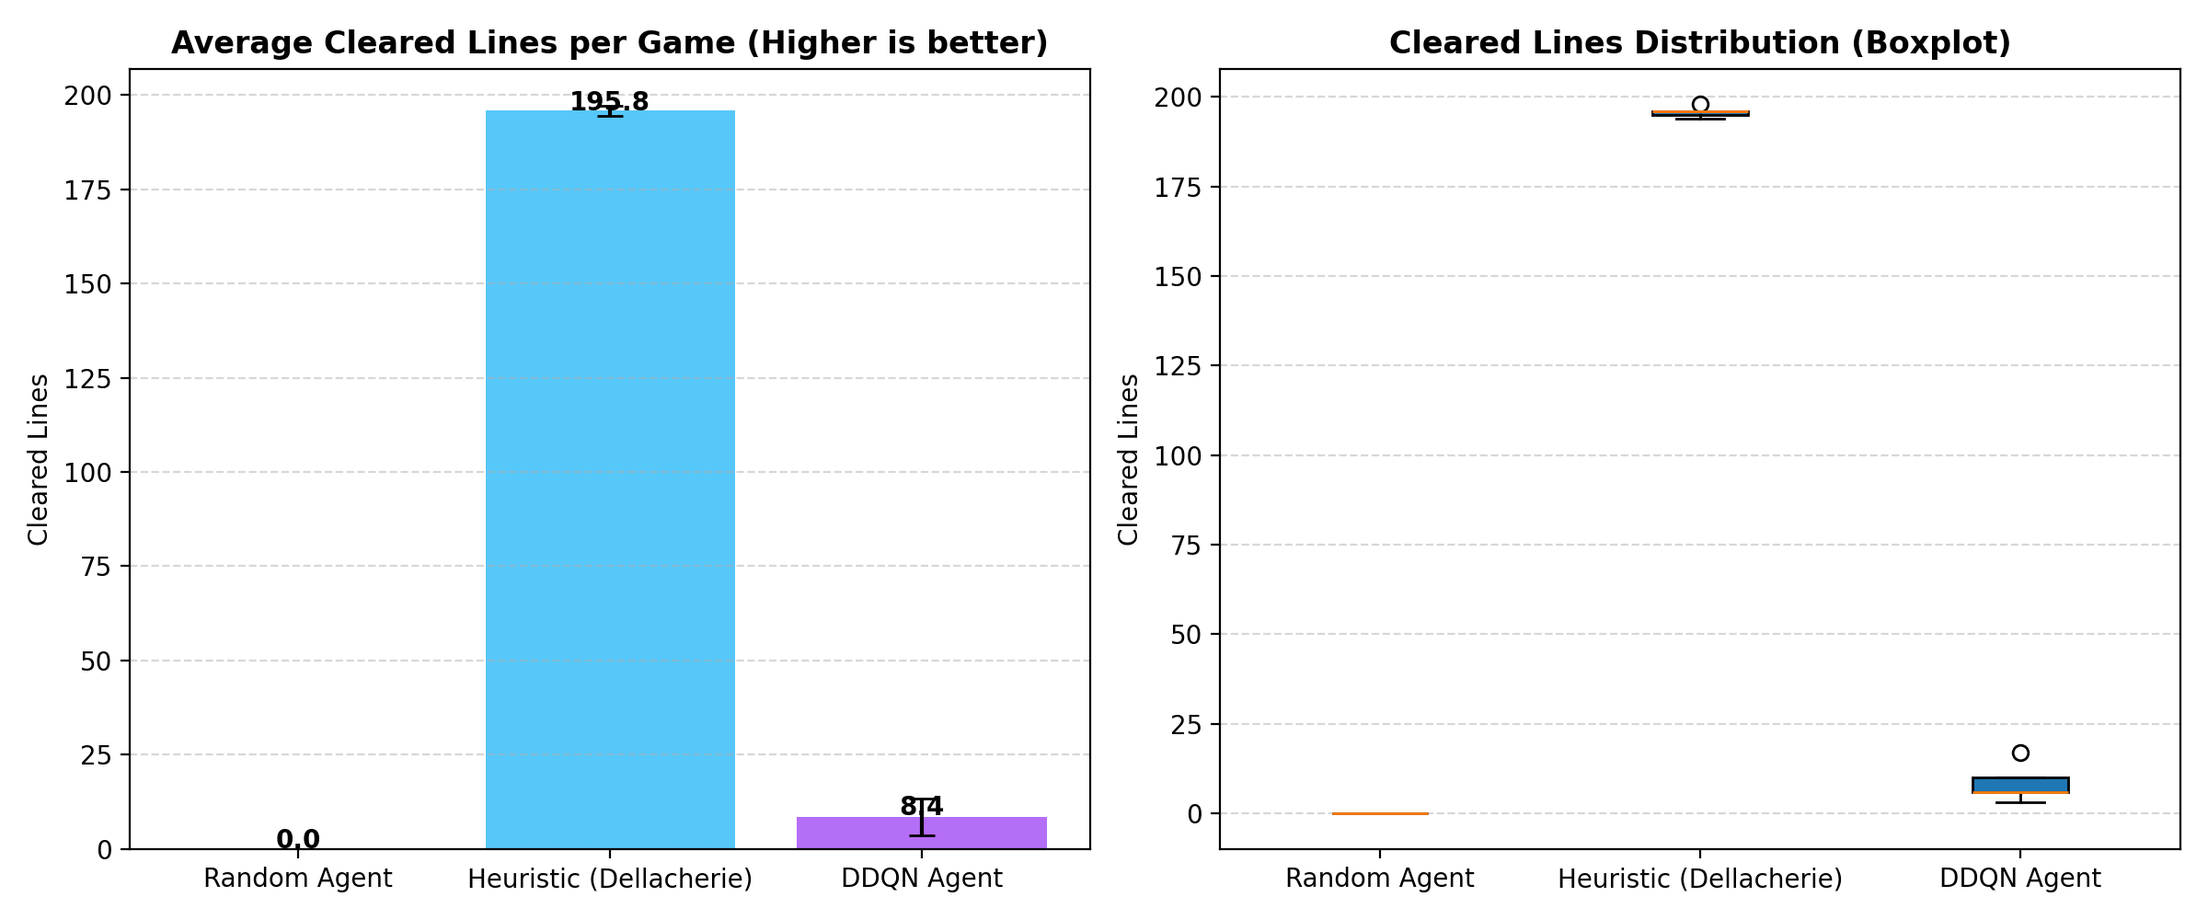
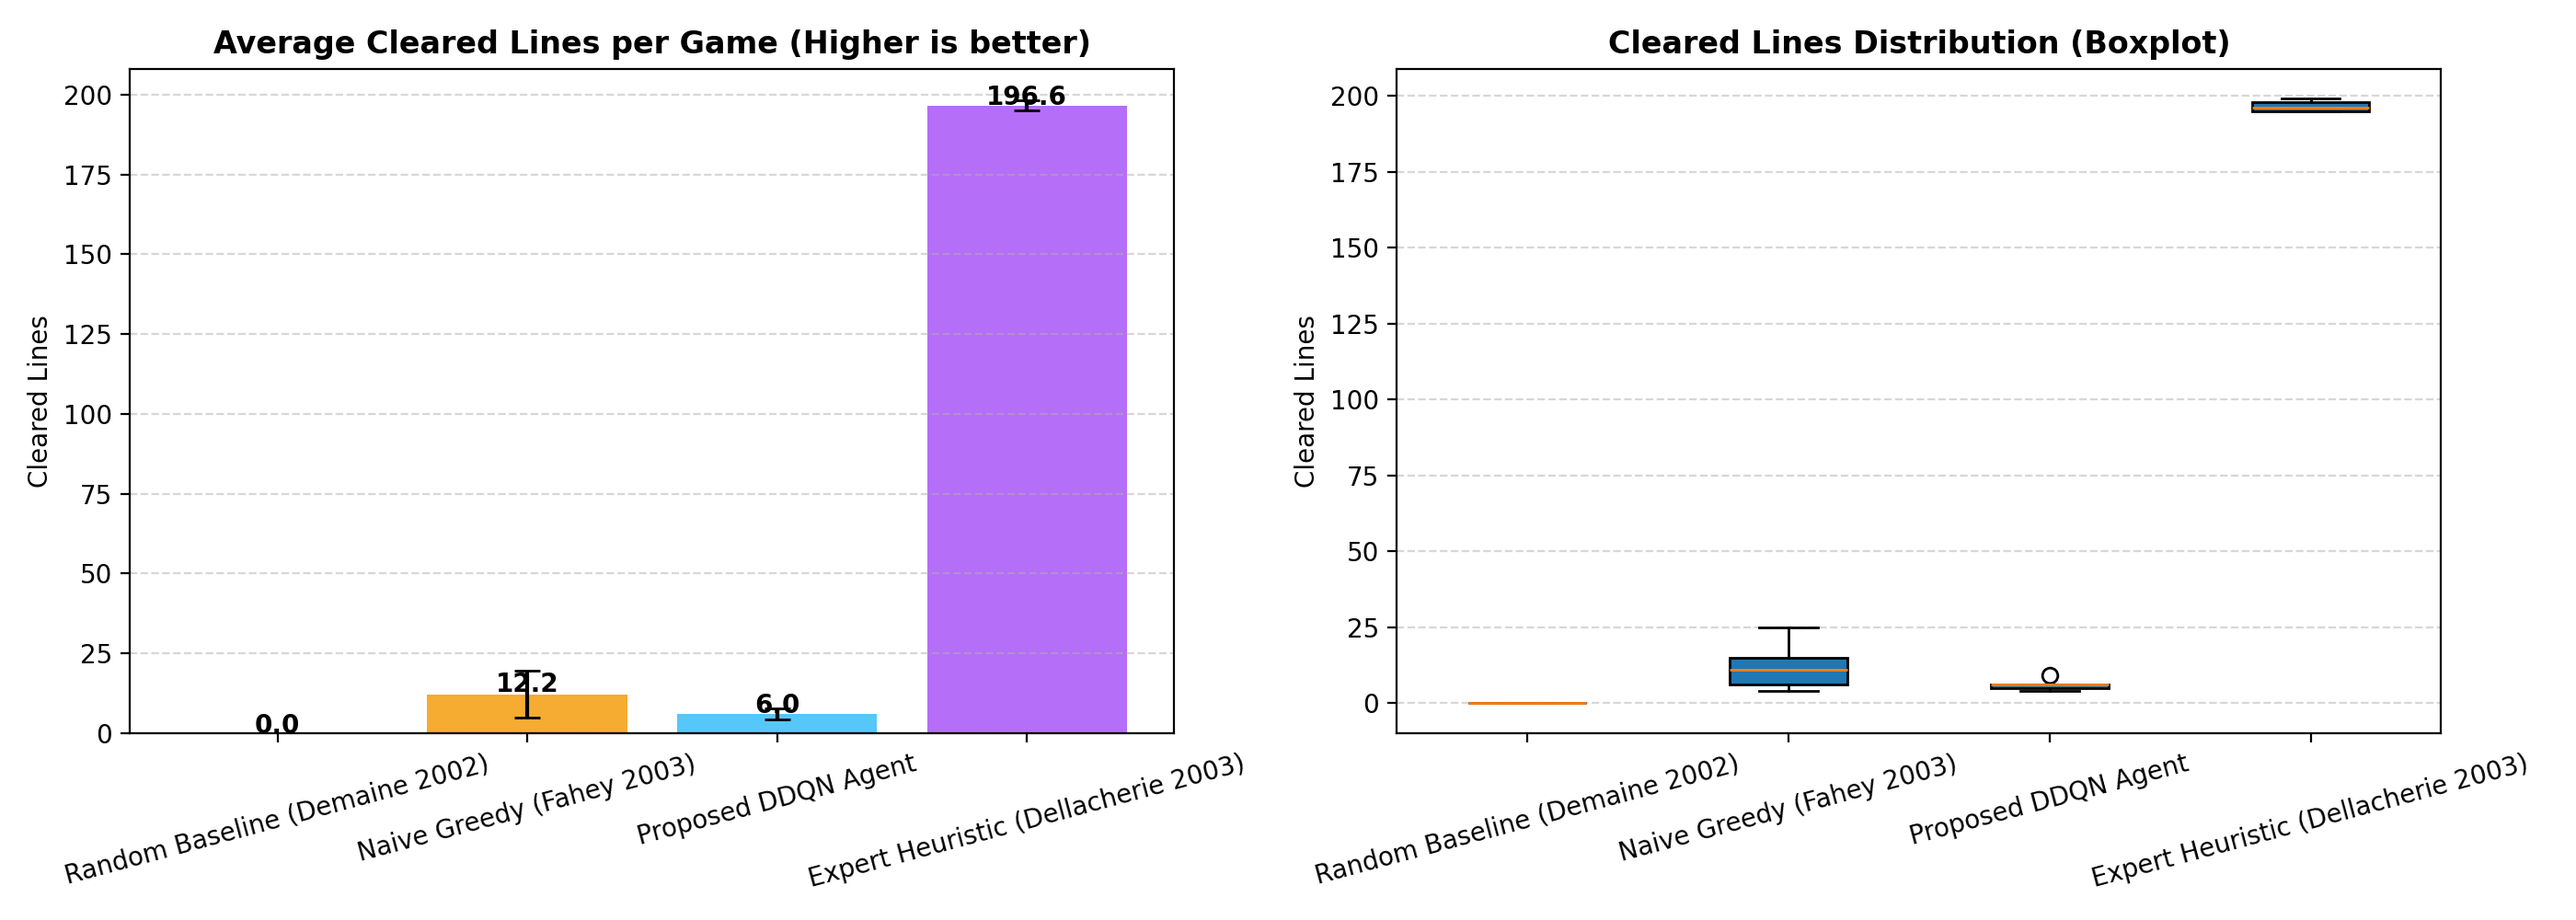
Update evaluation: Add 4-agent empirical benchmark (Random vs Naive Greedy vs DDQN vs Dellacherie) and comparison with lower baselines

diff --git a/src/evaluate.py b/src/evaluate.py
@@ -21,7 +21,7 @@ import numpy as np
 import matplotlib.pyplot as plt
 
 from src.env.tetris_env import TetrisEnv
-from src.agents.heuristic_agent import HeuristicAgent
+from src.agents.heuristic_agent import HeuristicAgent, NaiveGreedyAgent
 from src.agents.dqn_agent import DQNAgent
 
 
@@ -66,17 +66,19 @@ def evaluate(args):
 
     agents = {}
     if not args.skip_random:
-        agents["Random Agent"] = (RandomAgent(), False)
+        agents["Random Baseline (Demaine 2002)"] = (RandomAgent(), False)
 
-    if not args.skip_heuristic:
-        agents["Heuristic (Dellacherie)"] = (HeuristicAgent(), False)
+    agents["Naive Greedy (Fahey 2003)"] = (NaiveGreedyAgent(), False)
 
     if os.path.exists(args.model_path):
         dqn_agent = DQNAgent(state_dim=4, device=args.device)
         dqn_agent.load(args.model_path)
-        agents["DDQN Agent"] = (dqn_agent, True)
+        agents["Proposed DDQN Agent"] = (dqn_agent, True)
     else:
         print(f"Warning: Model file '{args.model_path}' not found. Skipping DDQN Agent evaluation.")
+
+    if not args.skip_heuristic:
+        agents["Expert Heuristic (Dellacherie 2003)"] = (HeuristicAgent(), False)
 
     results = {}
 
@@ -147,8 +149,8 @@ def generate_charts(results, output_file):
     if not names:
         return
 
-    fig, axes = plt.subplots(1, 2, figsize=(12, 5))
-    colors = ["#94a3b8", "#38bdf8", "#a855f7"]
+    fig, axes = plt.subplots(1, 2, figsize=(14, 5))
+    colors = ["#94a3b8", "#f59e0b", "#38bdf8", "#a855f7"]
 
     # 1. Bar Chart: Mean Cleared Lines
     mean_lines = [results[n]["mean_lines"] for n in names]
@@ -157,6 +159,7 @@ def generate_charts(results, output_file):
     axes[0].bar(names, mean_lines, yerr=std_lines, capsize=5, color=colors[: len(names)], alpha=0.85)
     axes[0].set_title("Average Cleared Lines per Game (Higher is better)", fontsize=12, fontweight="bold")
     axes[0].set_ylabel("Cleared Lines")
+    axes[0].tick_params(axis='x', labelrotation=15)
     axes[0].grid(axis="y", linestyle="--", alpha=0.5)
 
     for i, v in enumerate(mean_lines):
@@ -167,6 +170,7 @@ def generate_charts(results, output_file):
     axes[1].boxplot(data_to_plot, tick_labels=names, patch_artist=True)
     axes[1].set_title("Cleared Lines Distribution (Boxplot)", fontsize=12, fontweight="bold")
     axes[1].set_ylabel("Cleared Lines")
+    axes[1].tick_params(axis='x', labelrotation=15)
     axes[1].grid(axis="y", linestyle="--", alpha=0.5)
 
     plt.tight_layout()
@@ -176,8 +180,8 @@ def generate_charts(results, output_file):
 
 if __name__ == "__main__":
     parser = argparse.ArgumentParser(description="Evaluate and Benchmark Tetris Agents")
-    parser.add_argument("--games", type=int, default=10, help="Number of games to evaluate per agent")
-    parser.add_argument("--max-steps", type=int, default=5000, help="Max steps per game to avoid infinite loops")
+    parser.add_argument("--games", type=int, default=5, help="Number of games to evaluate per agent")
+    parser.add_argument("--max-steps", type=int, default=500, help="Max steps per game to avoid infinite loops")
     parser.add_argument("--model-path", type=str, default="checkpoints/best_model.pth", help="Trained model path")
     parser.add_argument("--output-dir", type=str, default="reports/figures", help="Directory for reports and plots")
     parser.add_argument("--device", type=str, default="cpu", help="Device (cpu or cuda)")

diff --git a/src/agents/heuristic_agent.py b/src/agents/heuristic_agent.py
@@ -32,3 +32,14 @@ class HeuristicAgent:
                 best_action = action
 
         return best_action
+
+
+class NaiveGreedyAgent(HeuristicAgent):
+    """
+    Lower-performing baseline (Fahey 2003 / Stevens 2016 baseline):
+    Only greedily minimizes aggregate height and maximizes cleared lines,
+    completely ignoring holes and bumpiness. This causes fatal trapped holes.
+    """
+    def __init__(self):
+        super().__init__(weight_height=-1.0, weight_holes=0.0, weight_bumpiness=0.0, weight_lines=1.0)
+

diff --git a/src/agents/__init__.py b/src/agents/__init__.py
@@ -1,4 +1,4 @@
-from .heuristic_agent import HeuristicAgent
+from .heuristic_agent import HeuristicAgent, NaiveGreedyAgent
 from .dqn_agent import DQNAgent
 
-__all__ = ["HeuristicAgent", "DQNAgent"]
+__all__ = ["HeuristicAgent", "NaiveGreedyAgent", "DQNAgent"]
